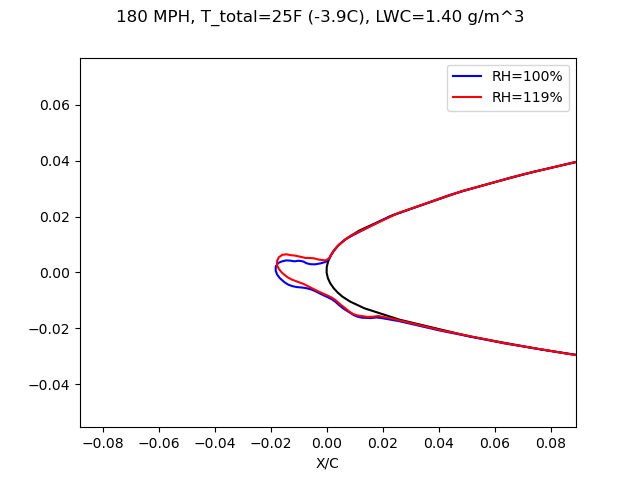
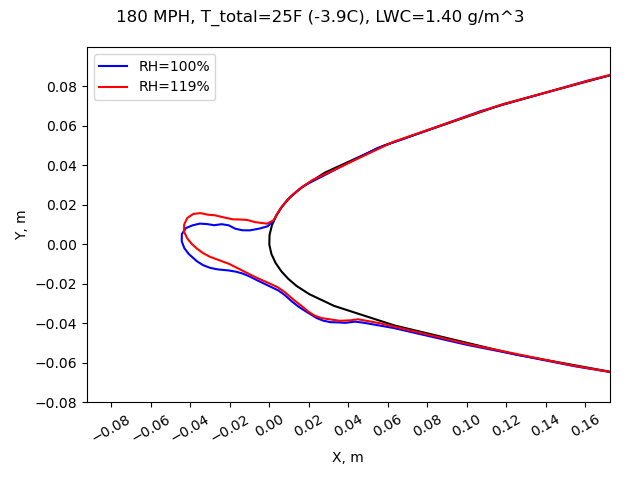
effects_of_humidity.md

diff --git a/content/effects_of_humidity.md b/content/effects_of_humidity.md
@@ -9,14 +9,14 @@ Supersaturated humidity can affect icing wind tunnel results.
 1. Some observations of supersaturated humidity conditions were made in the NACA-era.  
 2. Supersaturation was associated with frost on test article afterbodies.  
 3. Recirculating icing wind tunnel conditions are calculated to tend to be supersaturated.  
-4. Some potential effects of surpersaturation are calculated.  
+4. Some potential effects of supersaturation are calculated.  
 
 ##A brief primer on humidity  
 
 A measurement of water vapor in the air is humidity. 
 Relative humidity is the most common measure. 
 In everyday life 30% to 60% relative humidity is generally considered to be comfortable. 
-Lower humidities feel dry, and higher humidities feel balmy or wet.
+Lower humidities feel dry, and higher humidities feel wet or "humid".
 
 The most water vapor that can usually exist at a given static temperature is termed
 "saturated", and that condition has 100% relative humidity. 
@@ -44,11 +44,13 @@ Three NACA publications mention supersaturated conditions in an icing wind tunne
 
 ###Supersaturated icing wind tunnel conditions
 
-I found four publications that mentioned the humidity in the IRT. 
-Three of the four described it at superstaurated, and note the effect on frost formations. 
+I found four publications that mentioned the humidity in the NACA-era IRT. 
+Three of the four described it at supersaturated, and note the effect on frost formations. 
 None of the four described if the humidity was measured, inferred, or assumed. 
+(I have measured supersaturated humidity levels in an icing wind tunnel, 
+and have observed the frost on afterbodies.)
 
-####NACA-RM-E50I08  
+####NACA-RM-E50I08 [^1]  
 
 [Emphasis added]  
 >A calibration of the water content of the tunnel air was made just
@@ -64,7 +66,7 @@ constant.
 I infer from "The air was saturated at all temperatures prior to sprays" 
 that some effort was made to achieve saturated conditions. 
 
-####NACA-RM-E53C27
+####NACA-RM-E53C27 [^2]
 [Emphasis added]  
 >In figure 4(b) runback deposits have begun to collect directly impinging 
 droplets and are growing forward and outward. The deposits aft of the heated
@@ -75,7 +77,7 @@ not the usual case in flight__.
 ![Figure 4b.png](images/naca-rm-e53c27/Figure 4b.png)  
 
 
-####[NACA-TN-2962]({filename}NACA-TN-2962.md)  
+####[NACA-TN-2962]({filename}NACA-TN-2962.md) [^3]  
 >For studies of the effect of afterbody frost formations on the drag
 of the airfoil, no heat was furnished to the afterbody. Frost formed on
 the afterbody because of air-stream turbulence and the supersaturated
@@ -99,7 +101,7 @@ protrude as much as 1 inch in a direction normal to the air stream
 (fig. 26(d)).  
 ![Figure 26](images/naca-tn-2962/Figure 26.png)  
 
-####NACA-RM-E53E07  
+####NACA-RM-E53E07 [^4]  
 [Emphasis added]  
 >Photographs of ice on the ram inlet and the carburetor screen at
 the end of the icing periods are shown in figure 6. At the higher
@@ -113,8 +115,7 @@ deposit of small drops caused by the presence of rough ice formations
 on the ram-inlet lips.  
 ![Figure 6](images/naca-rm-e53e07/Figure 6.png)  
 
-
-###Water vapor analysis of an icing wind tunnel
+###Water vapor analysis of an icing wind tunnel  
 
 In the review ["The AEDC 1-Dimensional Multi-Phase code (AEDC1DMP) and the iads1dmp"]({filename}aedc1dmp.md) 
 the water spray drop evaporation was calculated, 
@@ -130,55 +131,77 @@ The static temperature lowers, but the vapor does not have time
 condense out to equilibrium, so the relative humidity climbs. 
 
 Two test conditions from NACA-TN-2962 were modeled with the iads1dmp.py program, 
-as shown below. The test airspeed for each was 180 MPH (about 80 m/s). 
-At that airspeed, the test section relative humidity is calculated to be about 120%. 
+as shown below. 
+The water drop size was listed at "10 to 16" micrometers, so I just picked 15 micrometer.
+The test airspeed for each was 180 MPH (about 80 m/s). 
+
+I used the example icing wind tunnel dimensions in [^6]. 
+The facility is not named, but it is of comparable size (but not identical) to the IRT. 
+
+At the 180 MPH airspeed, the test section relative humidity is calculated to be about 120%. 
 Higher airspeeds were also considered. 
 At higher airspeeds, the relative humidity can be much higher.  
 
-![](images/naca-tn-2962/naca_tn_2962_humidity_compare_rhs.png)  
+![Calculated humidity values](images/naca-tn-2962/naca_tn_2962_humidity_compare_rhs.png)  
 
-This has some effect on the calculated heat and mass balance. 
-For the leading edge stagnation line, 
-the calculated surface temperature and freezing fraction (n) are affected. 
+###Ice shape analysis with LEWICE2D [^7]  
 
-The difference in calculated leading edge freezing fraction varies by airspeed case. 
-At the lower airspeeds both values are 1, so there is no difference. 
-A maximum of 0.025 was found, which is probably not significant for most purposes. 
-![](images/naca-tn-2962/naca_tn_2962_humidity_dt_n_rh.png)  
+Humidity has some effect on the calculated heat and mass balance in icing calculations. 
+[However, note that vapor pressure or humidity was specifically omitted from
+[Bilanin's Pi Terms]({filename}bilanin_pi_terms.md)].
 
-The difference in surface temperature varies by airspeed case, 
-reaching a maximum of 0.35 C, which is probably not significant. 
-(Where the freezing fraction is below 1, both values are 0C, 
-so there is no temperature difference.)
+I do not know of a test where different humidity levels were used to 
+measure the effects on ice shapes. 
 
-![](images/naca-tn-2962/naca_tn_2962_humidity_dt_t_surface_rh.png)  
+We will use LEWICE2D to calculated some different ice shapes at different relative humidities. 
+LEWICE2D does not predict the formation of frost on the afterbody due to supersaturation 
+(the program was not intended to do so), 
+but it does predict differences in the main, leading edge region ice shape.
 
-The calculated difference test section temperature for no freezing 
-(n=0) is significantly affected by airspeed and the resulting humidity. 
-At the 80 m/s airspeed, there is a 1C difference, 
-which may not be significant in many cases. 
-However, at higher airspeed the results can be significantly different. 
+I selected the case from NACA-TN-2962 Figure 27 at T_total = 25F for comparisons.
+This had an 8-foot chord 65<sub>1</sub>-212 airfoil at 5 degrees angle of attack. 
+This test did not report an unheated ice shape for this specific condition. 
+It did include "General types of primary ice" in Figure 2. 
+The conditions selected here are probably closest to case (c):
 
-![](images/naca-tn-2962/naca_tn_2962_humidity_dt_max_t_rh.png)  
-
-This has implication for tests that seek to determine the maximum temperature for ice accumulation, 
-and to determine runback ice. 
+![Figure 2 of NACA-TN-2962](images/naca-tn-2962/Figure 2.png)   
 
 At the nominal airspeed of 180 MPH, 
 the effect of supersaturation on the ice shape as calculated by
 LEWICE2D is small.
 
-![](images/naca-tn-2962/naca_tn_2962_humidity_lewice_180mph.png)  
+![Ice at 180 MPH and T_total=25F](images/naca-tn-2962/naca_tn_2962_humidity_lewice_180mph.png)  
 
 At the 350 MPH, 
 the effect of supersaturation on the ice shape is small, 
 but more readily discernible than for the 180 MPH case. 
 
-![](images/naca-tn-2962/naca_tn_2962_humidity_lewice_350mph.png)  
+![Ice at 350 MPH and T_total=25F](images/naca-tn-2962/naca_tn_2962_humidity_lewice_350mph.png)  
 
+It we analyze at higher total temperatures, ice is still predicted 
+(but only about 1 mm ice thickness for this 20 minute long exposure)
+(I have observed ice formation at total air temperatures greater than 0C in an icing wind tunnel). 
 
+![Ice at 180 MPH and T_total=34F](images/naca-tn-2962/naca_tn_2962_humidity_lewice_4_5c_180mph.png)  
+
+At the higher airspeed, ice is predicted to form at a rather warm total air temperature of 40F 
+(I have not observed ice formation at total air temperatures as warm as 40F in an icing wind tunnel). 
+There is a notable difference between the ice shape at 100% relative humidity and the calculated 213% relative humidity
+(the ice shape at 213% relative humidity is barely visible, even on an expanded plot). 
+
+![Ice at 350 MPH and T_total=40F](images/naca-tn-2962/naca_tn_2962_humidity_lewice_4_5c_350mph.png)  
+
+In most cases the effect of supersaturation is small. 
+However, if one is attempting to demonstrate the presence or absence of ice
+at temperature near the maximum for ice formation, 
+a case such as the one above may not give a completely accurate answer in an icing wind tunnel,
+as the relative humidity is different than the assumed 100%.
 
 ##Conclusions  
+
+The observations of supersaturated conditions in the NACA-era IRT 
+(however that was determined)
+are supported by more recent analysis and test measurements. 
 
 As many test facilities cannot control humidity, 
 icing wind tunnel users should consider measuring test section humidity during tests. 
@@ -194,7 +217,7 @@ analysis methods such as the AEDC1DMP and the iads1dmp.py can be used.
 
 Some tests, 
 such as determining the maximum temperature for ice accumulation, 
-and determining the presence runback ice near the maximum temperature, 
+and determining the absence or presence of ice near the maximum temperature, 
 may be particularly sensitive to the effects of test section humidity. 
 
 ##Notes
@@ -204,4 +227,9 @@ may be particularly sensitive to the effects of test section humidity.
 [^3]: Gray, Vernon H., and Bowden, Dean T.: Comparison of Several Methods of Cyclic De-Icing of a Gas-Heated Airfoil. NACA-RM-E53C27, 1953.  
 [^4]: Lewis, James P.: Investigation of Aerodynamic and Icing Characteristics of Flush Alternate-Inlet Induction-Systems Air Scoop. NACA-RM-E53E07, 1953.  
 [^5]: Cook, Donald E.: Maximum Temperature for Ice Accumulation Calculations. AIAA-2005-655, January, 2005.   
+[^6]: 
+Schulz, R. J.: Second Report for Research and Modeling of Water Particles in Adverse Weather Simulation Facilities. TASK REPORT 97-03, AEDC, July, 1998, https://apps.dtic.mil/sti/pdfs/ADA364922.pdf  
+[^7]: 
+https://software.nasa.gov/software/LEW-18573-1,  
+https://ntrs.nasa.gov/citations/19990021235  
 

diff --git a/content/aedc_tr_85_30.md b/content/aedc_tr_85_30.md
@@ -11,7 +11,7 @@ status: draft
 An expanded set of icing similarity terms are derived and tested.  
 
 #Key Points  
-1. water drop impingement similarity is simplified using Ko.  
+1. Water drop impingement similarity is simplified using Ko.  
 2. Icing heat transfer similarity terms derived from Messinger are added.  
 3. Tests in an icing wind tunnel validate the selected set of similarity terms.  
 
@@ -96,10 +96,10 @@ Several candidate similarity terms are developed.
 
 ###Impingement similarity  
 
-Water drop impingement similarity is used, similar to [NACA-RM-E8A27]({filename}NACA-RM-E8A27.md), 
+Water drop impingement similarity is used, similar to [NACA-RM-E8A27]({filename}scaling_in_naca_tests.md), 
 but rather than separate K and Phi terms, a merged Ko term is used.
 
->K = 2/9 ρ<sub>w</sub>r<sub>d</sub><sup>2</sup>U<sub>∞</sub>/(μ<sub>a</sub>c) &nbsp;&nbsp;&nbsp;&nbsp; (3)
+>K = 2/9 ρ<sub>w</sub> r<sub>d</sub><sup>^2 </sup>U<sub>∞</sub>/(μ<sub>a</sub> c) &nbsp;&nbsp;&nbsp;&nbsp; (3)
 
 >Ko = (λ/λ<sub>s</sub>) K  &nbsp;&nbsp;&nbsp;&nbsp; (8)
 
@@ -130,8 +130,8 @@ T<sub>s</sub> is air static temperature
 A heat transfer analysis derived from Messinger [^3] was developed.
 
 >b = W<sub>w</sub>c<sub>p<sub>ws</sub></sub> / h<sub>c</sub>  &nbsp;&nbsp;&nbsp;&nbsp; (20)  
->Φ = 32 - T<sub>s</sub> - U<sub>∞</sub><sup>2</sup>/(2 g<sub>c</sub> J c<sub>p<sub>w,s</sub></sub>)  &nbsp;&nbsp;&nbsp;&nbsp; (21)  
->Θ = (T<sub>sur</sub> - T<sub>s</sub> - U<sub>∞</sub><sup>2</sup>/(2 g<sub>c</sub> J c<sub>p<sub>a</sub></sub>)) + W<sub>e</sub> L<sub>v</sub> / h<sub>c</sub>   &nbsp;&nbsp;&nbsp;&nbsp; (22)  
+>Φ = 32 - T<sub>s</sub> - U<sub>∞</sub><sup>^2</sup>/(2 g<sub>c</sub> J c<sub>p<sub>w,s</sub></sub>)  &nbsp;&nbsp;&nbsp;&nbsp; (21)  
+>Θ = (T<sub>sur</sub> - T<sub>s</sub> - U<sub>∞</sub><sup>^2</sup>/(2 g<sub>c</sub> J c<sub>p<sub>a</sub></sub>)) + W<sub>e</sub> L<sub>v</sub> / h<sub>c</sub>   &nbsp;&nbsp;&nbsp;&nbsp; (22)  
 
 >Where:  
 W<sub>w</sub> is water catch rate  
@@ -167,7 +167,9 @@ portion of this study:
 >(Φ)<sub>model</sub> = (Φ)<sub>full-scale</sub>  
 >(Θ)<sub>model</sub> = (Θ)<sub>full-scale</sub>  
 
-Table 1 shows prior scaling analysis works.
+Table 1 shows prior scaling analysis works. 
+It shows that industry and others were actively developing scaling methods 
+at a time when NACA/NASA was not. 
 
 ![Table 1](images/aedc-tr-85-30/Table 1.png)  
 
@@ -175,6 +177,8 @@ I have read two of these in the past (but I do not have a copy of them),
 and I have not found any of these online. 
 It is not surprising that the one from Lockheed Aircraft includes freezing fraction, 
 as Messinger worked there at that time. 
+
+###Icing wind tunnel tests
 
 Various methods were tried. 
 
@@ -193,7 +197,7 @@ performed the best, both for scaling test article size or other parameters.
 ![Figure 24d](images/aedc-tr-85-30/Figure 24d.png)  
 
 >These results have identified a scaling procedure that accurately duplicates the ice-
-accretion profiles. In this scaling method, Ko, Ac, n, Φ, and 0 are held constant. The set of
+accretion profiles. In this scaling method, Ko, Ac, n, Φ, and Θ are held constant. The set of
 verified scaling equations can, therefore, be expressed as follows:
 
 >1. (K<sub>o</sub>)<sub>model</sub> = (K<sub>o</sub>)<sub>full-scale</sub>  
@@ -255,10 +259,13 @@ versa.
 was developed, but facility limitations did not permit adequate verification.
 Additional testing is required to verify this ice-shedding scaling technique.  
 
-The selected method yielded excellent results. 
-However, it is rather restrictive, 
+The selected method yielded excellent results.
+
+In later literature, it is sometimes called the "AEDC" or "Ruff" method. 
+
+The method can be rather restrictive, 
 particularly if adjusting test section air pressure is not available. 
-Depending on the flight condition, 
+Depending on the flight reference condition, 
 the calculated test condition may be outside of the envelope of 
 MVD-LWC-Airspeed that the facility can produce (a subject not covered in AEDC-TR-85-30).
 

diff --git a/content/icing_wind_tunnel_test.md b/content/icing_wind_tunnel_test.md
@@ -62,7 +62,7 @@ Bilanin Pi-Terms and the Weber Number
 NASA/CR-2004-212875 "Manual of Scaling Methods" Icing Similarity Calculations  
 >"... it was not surprising that scale ice shapes were again a good match for the reference"  
 
-The Effect of Humidity 
+The Effects of Humidity 
 >"a condition of supersaturation, which promotes the growth of frost deposits"   
 
 Anti-Ice Test Similarity  
